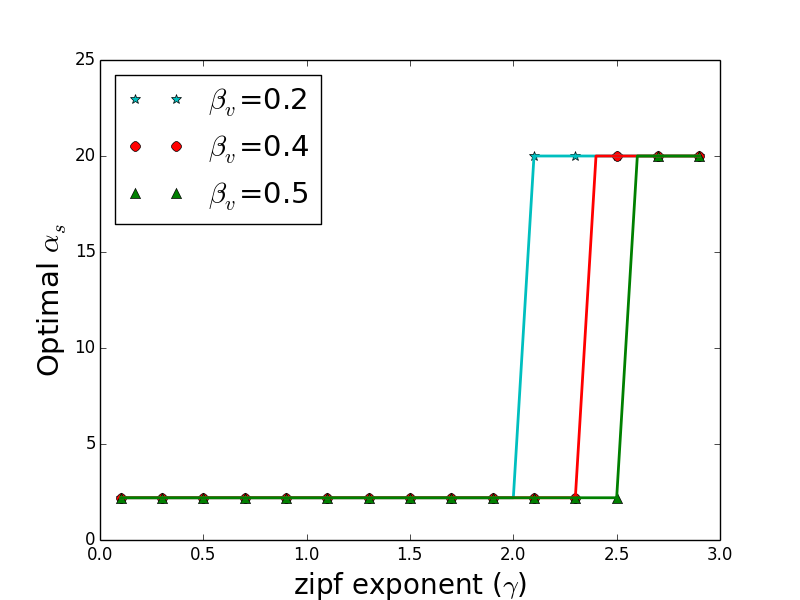
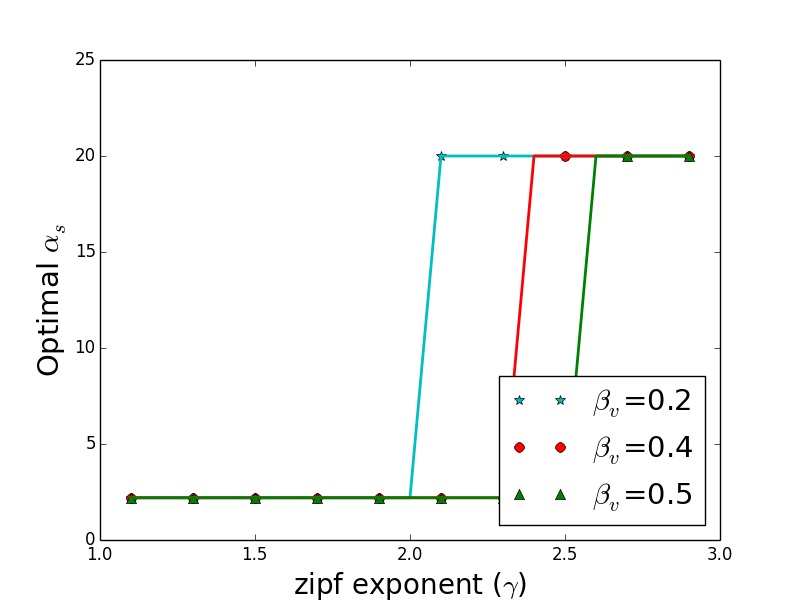
profit difference with zipf mean

diff --git a/scripts/generate_plots_mg1.py b/scripts/generate_plots_mg1.py
@@ -283,25 +283,29 @@ def zipfdistributionVaryExp(mode, dist):
 	# cp_alpha_v = 1.5* cp_alpha_s
 	beta = 0.9
 	gamma = 1
-	zipf_alpha_values = [0.1*x for x in range(1, 30)]
+	zipf_alpha_values = [0.1*x for x in range(11, 30)]
 	
 	total_num_vm = 0.0
 	total_num_serv = 0.0
 	results = []
 	total_profit = []
-	profits = []
+	profit_diff = []
 	configs = []
 	vms = []
 	containers = []
 	percent_load_containers = []
 	total_load = 0
+	mean_alpha_s_results = []
 	
-
 	beta_v_values = [0.2, 0.4, 0.5] 
 	for cp_alpha_v in beta_v_values:
 		cp_alpha_s = mu_v*cp_alpha_v/mu_s
 		optimal_a_s = []
+		mean_alpha_s_res = []
+		profits = []
+		mean_profits = []
 		print cp_alpha_v
+
 		for zipf_alpha in zipf_alpha_values:
 			zipf_contant = computeZipfConstant(max_lambda, zipf_alpha)
 			# print cp_ratio
@@ -315,7 +319,9 @@ def zipfdistributionVaryExp(mode, dist):
 			total_percent_SC = []
 			max_profit = -1
 			opt_alpha_s = -1
-
+			mean_profit = -1
+			mean_alpha_s = -1
+			exp_lambda = computeZipfConstant(max_lambda, zipf_alpha-1)/computeZipfConstant(max_lambda, zipf_alpha)
 			for ratio in price_ratios:
 				alpha_s = alpha_v * ratio
 				results_num_vm = []
@@ -343,7 +349,7 @@ def zipfdistributionVaryExp(mode, dist):
 						profit += ((1.0/max_lambda)*(revenue - cp_cost))
 					elif dist == 'Zipf':
 						profit += ((math.pow((1.0/val_lambda),zipf_alpha)*(revenue - cp_cost))/zipf_contant)
-				results.append(results_cost)
+				# results.append(results_cost)
 				total_profit.append(profit)
 				if max_profit < profit:
 					max_profit = profit
@@ -358,18 +364,33 @@ def zipfdistributionVaryExp(mode, dist):
 				opt_vms.append(total_num_vm)
 				opt_containers.append(math.ceil(total_num_serv/mu_s))
 				total_percent_SC.append(100.0*float(total_num_serv)/float(sum(range(max_lambda+1))))
+
+				# compute optimal for mean lambda
+				num_vm, load_serv, revenue = get_configAO(beta, mu_s, mu_v, alpha_v, alpha_s, gamma, val_lambda)
+				cp_cost = getCPCost(num_vm, load_serv, cp_alpha_v, cp_alpha_s, mu_s, mu_v, val_lambda, beta)
+				if mean_profit < revenue - cp_cost:
+					mean_profit = revenue - cp_cost
+					mean_alpha_s = alpha_s
 				# total_percent_SC.append(total_num_serv)
 			profits.append(max_profit)
+			mean_alpha_s_res.append(mean_alpha_s)
+			mean_profits.append(mean_profit)
+
 			optimal_a_s.append(opt_alpha_s)
 			print optimal_a_s
 			configs.append(opt_config)
 			vms.append(opt_vms)
 			containers.append(opt_containers)
 			percent_load_containers.append(total_percent_SC)
-		results.append(optimal_a_s)
+		results.append(optimal_a_s) 
+		profit_diff.append([a_i - b_i for a_i, b_i in zip(profits, mean_profits)])
+		mean_alpha_s_results.append(mean_alpha_s_res)
+
 		# print results
 	# print results
 	print zipf_alpha_values
+	print results
+	print profit_diff
 	filename = '../graphs/mg1/' + dist + 'Dist' + mode + 'VaryExp.png'
 	fig = plt.figure()
 	legends = []
@@ -419,6 +440,25 @@ def zipfdistributionVaryExp(mode, dist):
 	# plt.xlabel(r'$\alpha_s$', fontsize=25)
 	plt.xlabel('zipf exponent (' + r'$\gamma$' + ')', fontsize=20)
 
+	plt.savefig(filename)
+
+	filename = '../graphs/mg1/' + dist + 'Dist' + mode + 'VaryExpMeanProfit.png'
+	fig = plt.figure()
+	# plt.subplot(2,1,1)
+	plt.plot(zipf_alpha_values[::2], profit_diff[0][::2], 'c*', markersize=7)
+	plt.plot(zipf_alpha_values[::2], profit_diff[1][::2], 'ro', markersize=7)
+	plt.plot(zipf_alpha_values[::2], profit_diff[2][::2], 'g^', markersize=7)
+	plt.plot(zipf_alpha_values, profit_diff[0], 'c', linewidth='2')
+	plt.plot(zipf_alpha_values, profit_diff[1], 'r', linewidth='2')
+	plt.plot(zipf_alpha_values, profit_diff[2], 'g', linewidth='2')
+	plt.ylabel('Profit difference', fontsize=15)
+	# plt.ylim(0, 25)
+	plt.legend(legends, loc='lower right', fontsize=21)
+
+	# plt.subplot(2,1,2)
+
+
+	plt.xlabel('zipf exponent (' + r'$\gamma$' + ')', fontsize=20)
 	plt.savefig(filename)
 
 
